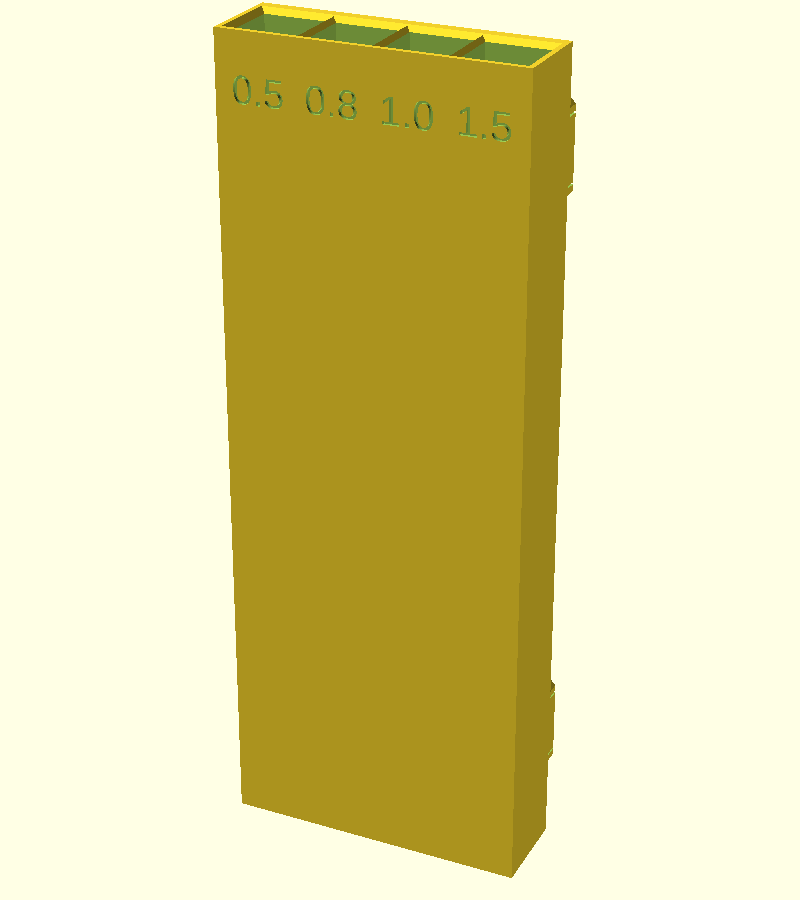
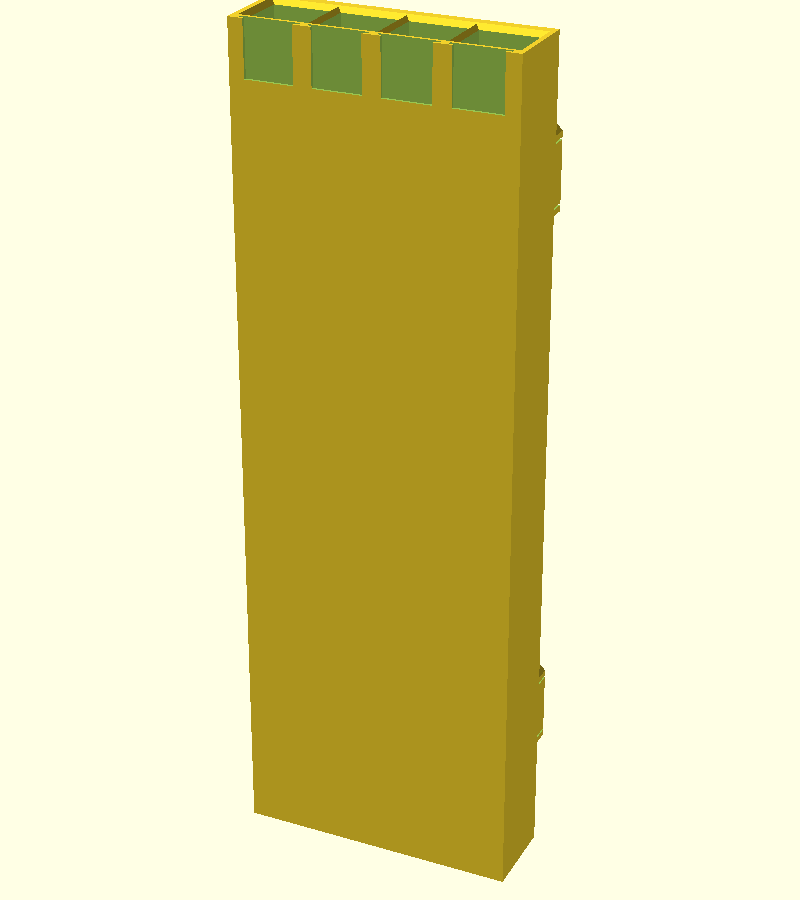
feat: tile in both axes and hold card labels
The holder was exactly 56 mm wide, so neighbours butted with zero
clearance and would rub once print tolerance is taken into account. It
was also 152 mm tall, which is not a whole number of cells, so stacking
two put the upper one's snaps off the grid.

Outer size is now a whole number of cells less tile_clearance, taken off
the outside so the snaps stay where they were. height_mode = "grid"
rounds the height up to the next whole cell and puts the spare into the
bore rather than the floor, making bore_depth a minimum. Defaults now
give 55.6 x 167.6 mm on a 2 x 6 cell footprint.

Fixed engraved sizes are replaced by a card pocket per compartment: a
slot in the front wall behind a windowed frame, open at the top so cards
drop in and pull back out. Engraved text stays available via label_mode.

The mouth chamfer now opens sideways and backwards only. Opening it
forwards as well ate into the front wall and broke through into the card
pocket at the top edge.

Verified: mountfit_check still gives 0 mm3, the model is a single
manifold shell, and the 0.7 mm wall behind the card pockets measures as
a solid slab across the full width.

Claude-Session: https://claude.ai/code/session_01Gnyny71Ld8DXRZfFjH2R5h

Changed region(s): [[0.25, 0.0, 0.7188, 0.9956]]

diff --git a/README.md b/README.md
@@ -6,10 +6,11 @@ hinge pin stock, but every dimension is parametric.
 
 ![Rod holder](images/rod_holder.png)
 
-- 2 grid cells wide (56 mm), 152 mm tall, 16.8 mm deep
-- 4 compartments, 11.8 mm square, 150 mm deep
-- Engraved diameter labels on the front face
+- 2 grid cells wide, 6 cells tall: 55.6 x 167.6 x 16.7 mm
+- 4 compartments, 11.7 mm square, 165.6 mm deep
+- Card label pocket above each compartment
 - Mounts on 4 snaps: two at the top, two at the bottom
+- Tiles in both directions, so a wall of them lines up
 
 ## Requirements
 
@@ -25,25 +26,66 @@ Then open `rod_holder.scad` in OpenSCAD.
 
 ---
 
+## Tiling
+
+![Tiling](images/rod_holder_tiling.png)
+
+*Four holders in a 2 x 2 block, with the board cells their snaps sit in shown behind.*
+
+The outer size is a whole number of grid cells **less `tile_clearance`**, taken
+off the outside so the snaps stay put. At the defaults the holder is 55.6 x
+167.6 mm and sits on a 56 x 168 mm footprint, which is 2 x 6 cells. Butt them up
+against each other and every snap still lands on the 28 mm grid, with 0.4 mm of
+air between neighbours so they do not rub.
+
+Vertical tiling is what `height_mode` is for:
+
+| `height_mode` | Height | Bore | Tiles vertically |
+|---|---|---|---|
+| `"grid"` (default) | Rounded up to a whole number of cells, 167.6 | 165.6 | Yes |
+| `"exact"` | `bore_depth + floor_thickness`, 152 | 150 | No |
+
+In `"grid"` mode `bore_depth` is a **minimum**. The height rounds up to the next
+whole cell and the spare goes into the bore, so asking for 150 mm gets you
+165.6 mm rather than 16 mm of dead plastic in the base. Use `"exact"` if you
+want the bore depth you asked for and do not care about stacking.
+
+---
+
 ## Layout
 
 The pot's back wall *is* the mounting plate, so there is no separate bracket.
-Snaps sit in the top and bottom rows only, 112 mm apart, which is 4 grid cells.
+Snaps sit in the top and bottom rows only.
 
 Snap centres have to land on the 28 mm grid and need 14 mm of clearance to any
-plate edge. For a 152 mm pot that works out as:
+plate edge, so the rows are pushed as far apart as the height allows and the
+pair is centred:
 
 ```
-snap_span = floor((152 - 28) / 28) * 28   = 112
-snap_z0   = (152 - 112) / 2               = 20
+snap_span = floor((pot_h - 28) / 28) * 28
+snap_z0   = (pot_h - snap_span) / 2
 ```
 
-so the rows sit at z = 20 and z = 132, with 20 mm of margin at each end. Change
-`bore_depth` and the rows move to suit automatically.
+At 167.6 mm tall that puts the rows 112 mm apart at z = 27.8 and z = 139.8.
+Change `bore_depth` and they move to suit.
 
 ![Section](images/rod_holder_section.png)
 
-*Cut through the middle: four full-depth bores, a 2 mm floor and the back plate the snaps hang off.*
+*Cut through the middle: four full-depth bores, the floor, and the back plate the snaps hang off.*
+
+---
+
+## Card labels
+
+Each compartment gets a pocket in the front wall that holds a slip of card
+behind a window. Cards drop in from the top of the pot and pull straight back
+out, so relabelling means writing a new slip rather than reprinting the holder.
+
+At the defaults the card is 11.7 x 12 mm with a 9.7 x 11 mm window, in a 0.7 mm
+slot. Cut a strip of 300 gsm card, or fold ordinary paper double.
+
+Set `label_mode = "engraved"` to cut fixed text into the front face instead, or
+`"none"` to leave it plain.
 
 ---
 
@@ -53,39 +95,48 @@ so the rows sit at z = 20 and z = 132, with 20 mm of margin at each end. Change
 
 | Parameter | Default | Description |
 |---|---|---|
-| `grid_cols` | `2` | How many grid cells wide. Sets the pot width, `grid_cols * 28` |
+| `grid_cols` | `2` | How many grid cells wide |
 | `lite_board` | `false` | `true` for a 4.0 mm Lite board, `false` for a 6.8 mm Full board |
 | `snap_clearance` | `0` | Raise to 0.05 to 0.1 if the snaps print tight |
+| `tile_clearance` | `0.4` | Gap left between neighbouring holders. Taken off the outside, the snaps stay on the grid |
+| `height_mode` | `"grid"` | `"grid"` rounds the height to whole cells so holders tile vertically. `"exact"` gives exactly `bore_depth + floor_thickness` |
 
 ### Pot
 
 | Parameter | Default | Description |
 |---|---|---|
-| `bore_depth` | `150` | Usable depth of each compartment |
+| `bore_depth` | `150` | Usable compartment depth. A minimum in `"grid"` mode |
 | `compartments` | `4` | Number of compartments across the width |
 | `wall` | `2.0` | Front and side wall thickness |
 | `divider` | `1.6` | Thickness of the walls between compartments |
 | `back_plate` | `3.0` | Back plate thickness, this is what the snaps hang off |
 | `floor_thickness` | `2.0` | Material under the compartments |
 | `compartment_depth` | `0` | Front to back size. `0` makes the compartments square |
-| `mouth_chamfer` | `1.0` | 45 degree lead-in at the mouth so rods drop in cleanly |
+| `mouth_chamfer` | `1.0` | Lead-in at the mouth. Opens sideways and backwards only, so the front wall stays thick enough for the card pocket |
 
 Compartment width is whatever is left over:
 
 ```
-comp_w = (grid_cols * 28 - 2 * wall - (compartments - 1) * divider) / compartments
+comp_w = (grid_cols * 28 - tile_clearance - 2 * wall
+          - (compartments - 1) * divider) / compartments
 ```
 
-which gives 11.8 mm at the defaults.
+which gives 11.7 mm at the defaults.
 
 ### Labels
 
 | Parameter | Default | Description |
 |---|---|---|
-| `labels` | `["0.5", "0.8", "1.0", "1.5"]` | One per compartment, left to right as mounted. `""` for none, extras are ignored |
-| `label_size` | `5` | Glyph height |
+| `label_mode` | `"card"` | `"card"`, `"engraved"` or `"none"` |
+| `card_height` | `12` | Height of the card pocket. Width follows the compartment |
+| `card_thickness` | `0.7` | Thickness of card the slot takes |
+| `card_lip` | `0.6` | Front frame that stops the card falling out |
+| `card_lip_margin` | `1.0` | How far that frame overlaps the card at the sides and bottom |
+| `card_side_gap` | `0.8` | Gap each side of the card. Twice this is the rib between neighbouring pockets, so keep it near half the divider thickness |
+| `labels` | `["0.5", "0.8", "1.0", "1.5"]` | Engraved mode only. Left to right as mounted |
+| `label_size` | `5` | Engraved glyph height |
 | `label_depth` | `0.6` | Engraving depth |
-| `label_inset` | `10` | Distance from the top of the pot down to the middle of the label |
+| `label_inset` | `10` | Engraved mode only, distance from the top down to the middle of the text |
 
 ### Output
 
@@ -104,7 +155,8 @@ Set `layout = "print"`. That lays the pot **front face down** with the snaps
 pointing up, which is the orientation this part wants:
 
 - every snap overhang is 45 degrees or shallower, so no support is needed
-- the engraved labels end up on the bed and come out crisp
+- the card pocket frames are on the bed and come out crisp, and the roof of each
+  pocket is a short flat bridge between two edges
 - the compartment bores run horizontally and need no bridging
 
 Following the [openGrid printing guide](https://www.opengrid.world/guides/printing/):
@@ -115,10 +167,10 @@ Following the [openGrid printing guide](https://www.opengrid.world/guides/printi
 - 15% infill or more
 - Do not use a draft or fast profile, it will ruin the snap tolerances
 
-Bed needs to fit 152 x 56 mm. About 74 cm3 of material at the defaults.
+Bed needs to fit 167.6 x 55.6 mm. About 79 cm3 of material at the defaults.
 
 **Print one snap first.** Run the library's tile and snap examples and check the
-fit by hand before committing to a 150 mm part.
+fit by hand before committing to a 168 mm part.
 
 ---
 
@@ -133,7 +185,7 @@ openscad --export-format=binstl -o mountfit.stl mountfit_check.scad
 ```
 
 This currently comes out at 0 mm3, so the snaps clear their cells everywhere at
-rest. `section_preview.scad` produces the cutaway image above.
+rest.
 
 ---
 
@@ -143,6 +195,7 @@ rest. `section_preview.scad` produces the cutaway image above.
 rod_holder.scad        -- the model
 mountfit_check.scad    -- snap-to-board interference check
 section_preview.scad   -- cutaway used for the README image
+tiling_preview.scad    -- 2 x 2 block used for the README image
 images/                -- rendered previews
 ```
 

diff --git a/todo.md b/todo.md
@@ -4,8 +4,12 @@
 - [ ] Print one bare snap plus a single-cell test tile from the `opengrid`
       library, check the snap fit by hand before printing the full 152 mm pot.
 - [ ] Print the holder with `layout = "print"` and confirm no support is needed.
-- [ ] Check 0.5 mm rod is actually retrievable from a 150 mm deep, 11.8 mm square
-      compartment. If it is fiddly, add a front finger cutout as an option.
+- [ ] Check 0.5 mm rod is actually retrievable from a 165.6 mm deep, 11.7 mm
+      square compartment. If it is fiddly, add a front finger cutout as an option.
+- [ ] Check the card pocket takes whatever card is to hand. card_thickness is
+      0.7, which suits 300 gsm or folded paper. Measure before printing four.
+- [ ] Print two holders and confirm they actually sit side by side on the board
+      with the 0.4 mm tile_clearance.
 
 ## Open questions
 - [ ] Download `openGrid Tile Dimensions.pdf` from the Printables model (needs a
